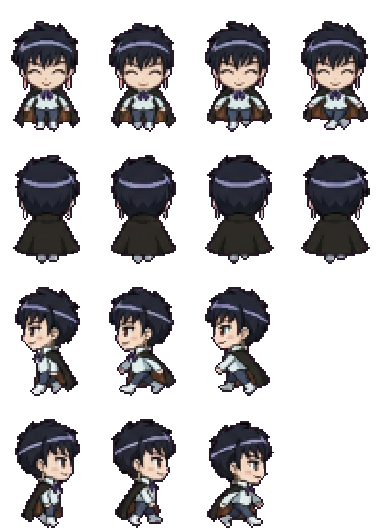
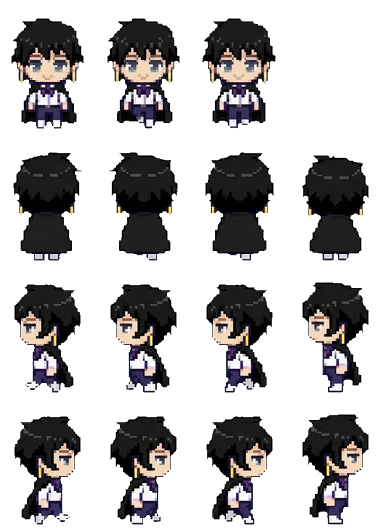
Redraw Meryl Stryfe in the shared art style
Claude-Session: https://claude.ai/code/session_01KaPsBYLrtbRfMYNG2xeBCK

diff --git a/docs/app.js b/docs/app.js
@@ -75,7 +75,7 @@ function spr(cat, k, col, sc) {
   return `<div class="clip" style="width:${it[2] * sc}px;height:${it[3] * sc}px;POS"><img class="px" src="assets/decor/${cat}.png" alt="" style="width:${S.sw * sc}px;height:${S.sh * sc}px;margin-left:${-col * S.cw * sc}px;margin-top:${-i * S.ch * sc}px"></div>`;
 }
 const icon = (k, sz) => `<span class="itm" style="width:${sz}px;height:${sz}px"><img class="px" src="assets/ui/items.png" alt="" style="width:${IT.length * sz}px;height:${sz}px;margin-left:${-ITM[k].i * sz}px"></span>`;
-const face = (id, w) => { const s = w / 96; return `<img class="px" src="assets/ch/${id}.webp?v=68" alt="" style="position:absolute;width:${384 * s}px;height:${528 * s}px;left:${-(96 * s - w) / 2}px;top:0;max-width:none">`; };
+const face = (id, w) => { const s = w / 96; return `<img class="px" src="assets/ch/${id}.webp?v=69" alt="" style="position:absolute;width:${384 * s}px;height:${528 * s}px;left:${-(96 * s - w) / 2}px;top:0;max-width:none">`; };
 
 // ---------- 저장 ----------
 let fb = null, user = null, S = null, saveT = null;
@@ -143,7 +143,7 @@ function sleepHTML(id, r, dy) {
   const pos = r.a && r.a[0] === 'bed' ? 'left:3%;bottom:20%' : r.b && r.b[0] === 'bed' ? 'right:3%;bottom:20%' : 'left:calc(50% - 44px);bottom:6%';
   const s = 36 / 96;
   return `<div style="position:absolute;width:88px;height:56px;${pos};z-index:${dy ? 4 : 5};${dy ? `transform:translate(12px,${dy}px)` : ''}"><div style="position:absolute;inset:0;filter:brightness(.22)">
-    <div style="position:absolute;left:11px;top:1px;width:36px;height:50px;overflow:hidden;transform:rotate(-90deg)"><img class="px" src="assets/ch/${id}.webp?v=68" alt="" style="width:${384 * s}px;height:${528 * s}px;max-width:none;margin-top:${-132 * s}px"></div>
+    <div style="position:absolute;left:11px;top:1px;width:36px;height:50px;overflow:hidden;transform:rotate(-90deg)"><img class="px" src="assets/ch/${id}.webp?v=69" alt="" style="width:${384 * s}px;height:${528 * s}px;max-width:none;margin-top:${-132 * s}px"></div>
     <div style="position:absolute;left:19px;top:19px;width:67px;height:29px;border:2px solid var(--ink);border-radius:8px 6px 4px 4px;background:#8ccff5;background-image:repeating-linear-gradient(90deg,transparent 0 10px,rgba(255,255,255,.5) 10px 13px)"></div></div>
     ${dy ? '' : '<span class="emo" style="left:8px;top:-22px;color:#5b6bd6">Z z z</span>'}</div>`;
 }
@@ -153,8 +153,8 @@ function roomHTML(id, o, scale) {
     <div class="floor" style="background-color:${PAL[r.fc][1]};background-image:${tileUrl('floor', r.fl)}"></div>
     ${slot('deco', r.dc, 'left:6%;top:6%')}${slot('furn', r.a, 'left:3%;bottom:20%')}${slot('furn', r.b, 'right:3%;bottom:20%')}${slot('prop', r.pr, 'left:28%;bottom:4%;z-index:2')}
     ${id && o.sleeping && g ? sleepHTML(g, r, -16) : ''}${id && o.sleeping ? sleepHTML(id, r) : ''}${id && o.job ? `<div style="position:absolute;left:50%;top:38%;transform:translateX(-50%);z-index:5;background:#fff;border:3px solid var(--ink);border-radius:10px;padding:6px 10px;font-size:11px;text-align:center;line-height:1.5"><img src="assets/ui/ic_job.png" alt="" style="width:18px;vertical-align:-4px"> ${WORK[id] ? WORK[id][1] : esc(JOB_NAME[id]) + ' 알바 중'}${g ? `<br><small>${esc(nameOf(g))}도 같이</small>` : ''}<br><b id="jobleft">${timeLeft(o.job.until)}</b></div>` : ''}
-    ${id ? `<div class="shadow" id="shd" ${o.sleeping || o.job ? 'style="display:none"' : ''}></div><div class="man" id="man" ${o.sleeping || o.job ? 'style="display:none"' : ''}><img class="px" src="assets/ch/${id}.webp?v=68" alt="${esc(nameOf(id))}"></div><span class="emo" id="emo" hidden></span><span class="mumble" id="mum" hidden></span>` : ''}
-    ${g ? `<div class="shadow" id="gshd" ${hideG}></div><div class="man" id="gman" ${hideG}><img class="px" src="assets/ch/${g}.webp?v=68" alt="${esc(nameOf(g))}"></div><span class="emo" id="gemo" hidden></span><span class="mumble gmum" id="gmum" hidden></span>` : ''}
+    ${id ? `<div class="shadow" id="shd" ${o.sleeping || o.job ? 'style="display:none"' : ''}></div><div class="man" id="man" ${o.sleeping || o.job ? 'style="display:none"' : ''}><img class="px" src="assets/ch/${id}.webp?v=69" alt="${esc(nameOf(id))}"></div><span class="emo" id="emo" hidden></span><span class="mumble" id="mum" hidden></span>` : ''}
+    ${g ? `<div class="shadow" id="gshd" ${hideG}></div><div class="man" id="gman" ${hideG}><img class="px" src="assets/ch/${g}.webp?v=69" alt="${esc(nameOf(g))}"></div><span class="emo" id="gemo" hidden></span><span class="mumble gmum" id="gmum" hidden></span>` : ''}
     ${o.sleeping ? `<div class="night"></div><div class="sleepleft">쿨쿨 · 일어나기까지 <b id="sleepleft">${timeLeft(wakeAt(o)).replace(' 남음', '')}</b></div>` : ''}
   </div>`;
 }
@@ -167,7 +167,7 @@ function meterHTML(o) {
 const ic = (act, img, label, pressed) => `<button class="ic" data-act="${act}" ${pressed ? 'aria-pressed="true"' : ''}><img src="assets/ui/ic_${img}.png?v=2" alt="">${label}</button>`;
 
 let dropStyle = null; const cheat = {};
-const APP_V = 141, COUPONS = { NINOGUYA: 3000 };
+const APP_V = 142, COUPONS = { NINOGUYA: 3000 };
 // 쿠폰 입력 정리: 한글 자판 상태로 친 글자(ㅜㅑㅜㅐ혀ㅛㅁ)도 영어 자판 글자로 바꾸고, 대소문자·띄어쓰기·마침표는 무시해요
 const KEY = { ㄱ: 'r', ㄲ: 'R', ㄴ: 's', ㄷ: 'e', ㄸ: 'E', ㄹ: 'f', ㅁ: 'a', ㅂ: 'q', ㅃ: 'Q', ㅅ: 't', ㅆ: 'T', ㅇ: 'd', ㅈ: 'w', ㅉ: 'W', ㅊ: 'c', ㅋ: 'z', ㅌ: 'x', ㅍ: 'v', ㅎ: 'g',
   ㅏ: 'k', ㅐ: 'o', ㅑ: 'i', ㅒ: 'O', ㅓ: 'j', ㅔ: 'p', ㅕ: 'u', ㅖ: 'P', ㅗ: 'h', ㅘ: 'hk', ㅙ: 'ho', ㅚ: 'hl', ㅛ: 'y', ㅜ: 'n', ㅝ: 'nj', ㅞ: 'np', ㅟ: 'nl', ㅠ: 'b', ㅡ: 'm', ㅢ: 'ml', ㅣ: 'l',
@@ -407,7 +407,7 @@ function startTrip(k) {
   if (tg) lines[1] = `${nameOf(tg)}: ${withHim(sub(pick(GLX(tg).trip), o, c.n), tg)}`;
   const n = (FR[id] || [4, 4, 4, 4])[3], el = document.createElement('div'); el.className = 'tripview';
   el.innerHTML = `<div class="tsay"> </div><div class="tstage" style="background-image:url(assets/travel/${k}.png?v=2)"><div class="tplace">${esc(c.n)}</div>
-    <div class="twalker"><img class="px" src="assets/ch/${id}.webp?v=68" alt=""></div>${tg ? `<div class="twalker tgirl"><img class="px" src="assets/ch/${tg}.webp?v=68" alt=""></div>` : ''}<span class="emo tjoy">♪</span></div>
+    <div class="twalker"><img class="px" src="assets/ch/${id}.webp?v=69" alt=""></div>${tg ? `<div class="twalker tgirl"><img class="px" src="assets/ch/${tg}.webp?v=69" alt=""></div>` : ''}<span class="emo tjoy">♪</span></div>
     <div class="tbar"><i></i></div><button class="btn white tskip" data-tskip="1">바로 돌아오기</button>`;
   document.body.appendChild(el);
   const gimg = el.querySelector('.tgirl img'), gn = tg ? (FR[tg] || [4, 4, 4, 4])[3] : 1;
@@ -665,7 +665,7 @@ setInterval(() => { if (S && user) { tickTime(); save(); } }, 60000);
     if (nv > APP_V && !location.search.includes('u=' + nv)) { location.replace(location.pathname + '?u=' + nv); return; }
   } catch { }
   app.innerHTML = '<div class="start"><div class="egg"><div class="scr"></div></div><div class="note">불러오는 중....</div></div>';
-  const [c, t, f, it, mu, ct, tv, gl, sts] = await Promise.all(['data/chars.json', 'data/talk.json', 'data/frames.json', 'data/items.json', 'data/mumble.json', 'data/countries.json', 'data/travel.json', 'data/girls.json', 'data/sets.json'].map(u => fetch(u + '?v=141').then(r => r.ok ? r.json() : {})));
+  const [c, t, f, it, mu, ct, tv, gl, sts] = await Promise.all(['data/chars.json', 'data/talk.json', 'data/frames.json', 'data/items.json', 'data/mumble.json', 'data/countries.json', 'data/travel.json', 'data/girls.json', 'data/sets.json'].map(u => fetch(u + '?v=142').then(r => r.ok ? r.json() : {})));
   CH = c; CHM = Object.fromEntries(c.map(x => [x.id, x])); TALK = t; FR = f; IT = it; ITM = Object.fromEntries(it.map(x => [x.k, x])); MUM = mu; CTRY = ct; TRV = tv; GL = Array.isArray(gl) ? gl : []; SETS = Array.isArray(sts) ? sts : []; GLM = Object.fromEntries(GL.map(x => [x.id, x]));
   try { await initFirebase(); } catch (e) { console.warn('Firebase 연결 실패, 기기 저장으로', e); fb = null; }
   if (fb) {

diff --git a/docs/index.html b/docs/index.html
@@ -18,6 +18,6 @@
 <main id="app" aria-live="polite"></main>
 <div id="toast" role="status" hidden></div>
 <script src="firebase-config.js?v=3"></script>
-<script type="module" src="app.js?v=141"></script>
+<script type="module" src="app.js?v=142"></script>
 </body>
 </html>
